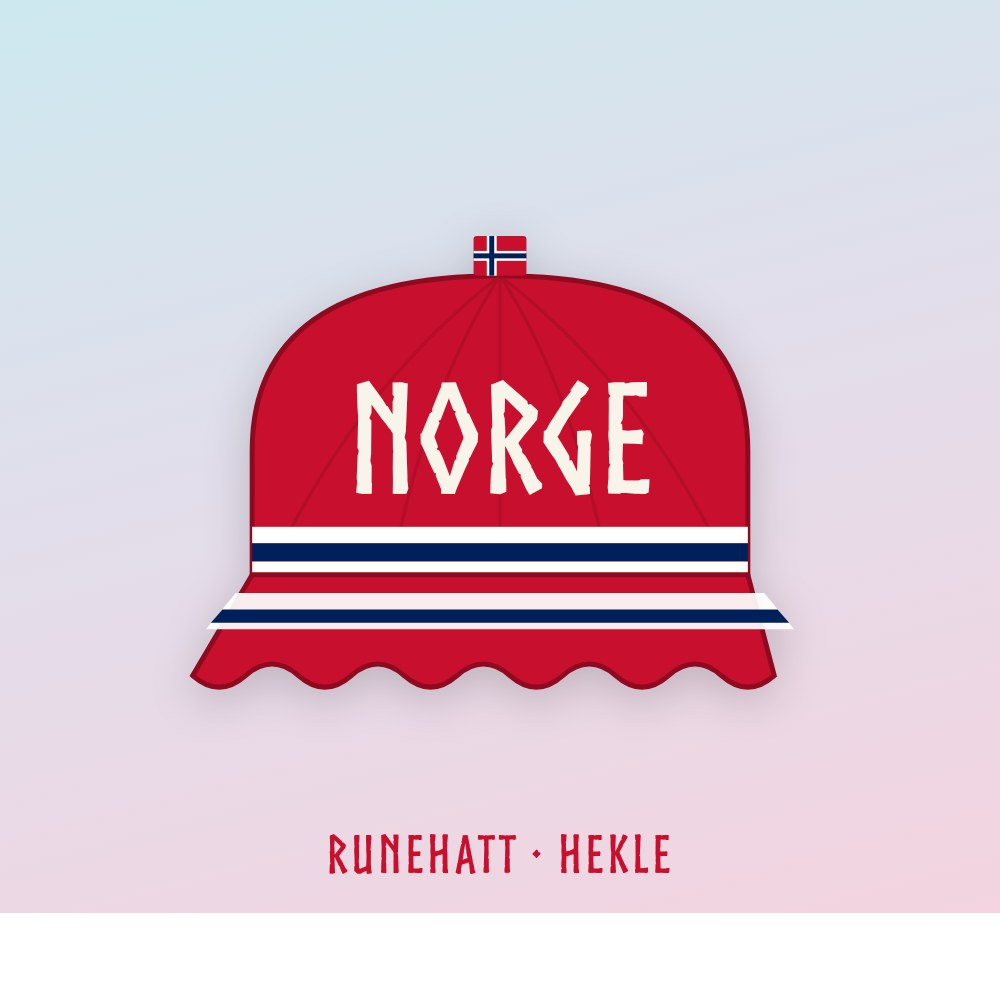
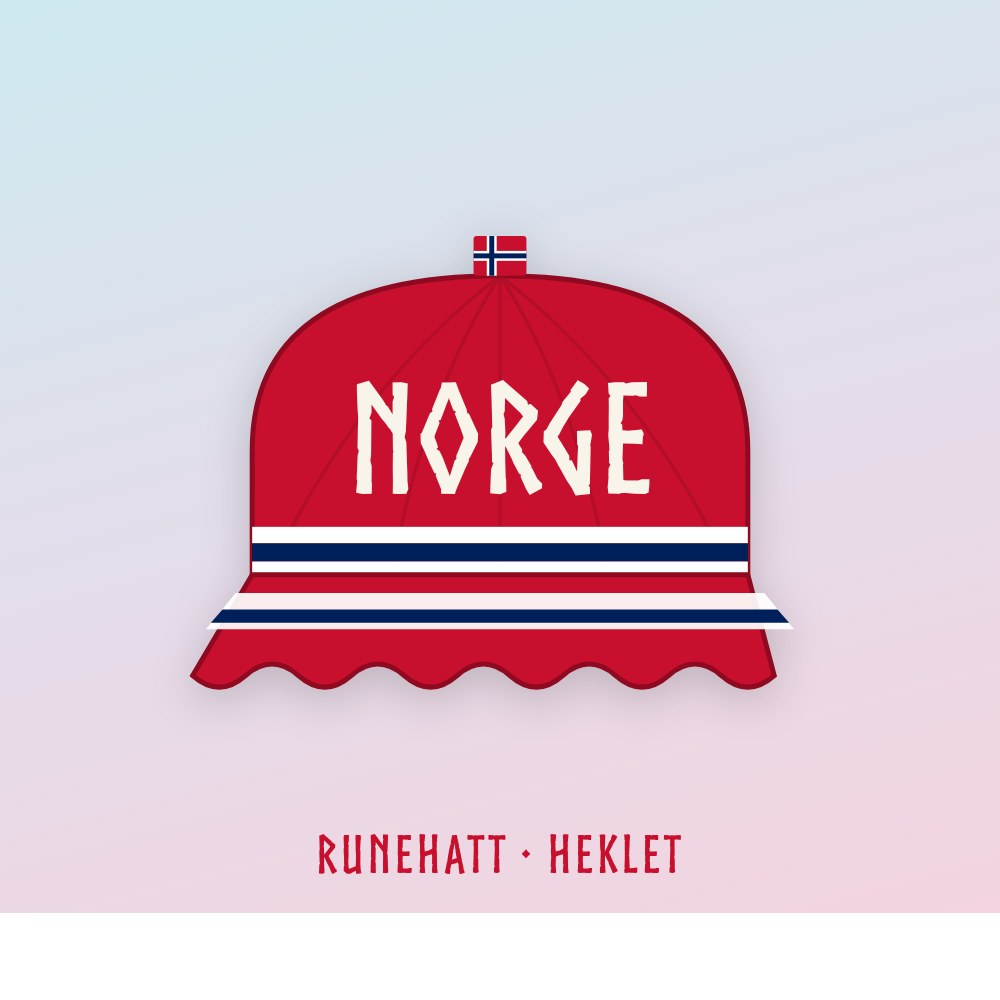
Runehatt: cover sier HEKLET (ikke HEKLE), oppdater oversettelsesnokler, cache-bust bilde
Claude-Session: https://claude.ai/code/session_012w3LccKvtpAvZ2JdFM7Bso

Changed region(s): [[0.31, 0.837, 0.682, 0.899]]

diff --git a/butikk.html b/butikk.html
@@ -1312,7 +1312,7 @@ main > *:nth-child(6) { animation-delay: 0.3s; }
         <a href="/butikk/norge-rune" style="display:block;text-decoration:none;color:inherit;">
           <div class="product-image" style="background:#F8D7DA;">
             <span class="product-tag">NY</span>
-            <img src="/images/oppskrift-norge-rune.jpg" alt="NORGE-runehatt, hekleoppskrift" style="position:absolute;inset:0;width:100%;height:100%;object-fit:cover;">
+            <img src="/images/oppskrift-norge-rune.jpg?v=2" alt="NORGE-runehatt, hekleoppskrift" style="position:absolute;inset:0;width:100%;height:100%;object-fit:cover;">
           </div>
         </a>
         <div class="product-info">
@@ -1951,8 +1951,8 @@ main > *:nth-child(6) { animation-delay: 0.3s; }
     "Strikk · broder bokstavene · nybegynnervennlig · rød NORGE": "Knit · embroider the letters · beginner-friendly · red NORGE",
     "NORGE-bøttehatt, innstrikket": "NORGE bucket hat, knitted in",
     "Strikk · innstrikket flerfargestrikk · viderekommende · rød NORGE": "Knit · stranded colourwork · advanced · red NORGE",
-    "NORGE-runehatt, hekle": "NORGE rune hat, crochet",
-    "Hekle · staver · NORGE/NORWAY i runeskrift · stripet brem · barn til herre": "Crochet · double crochet · NORGE/NORWAY in runes · striped brim · child to man"
+    "NORGE-runehatt, heklet": "NORGE rune hat, crochet",
+    "Heklet · staver · NORGE/NORWAY i runeskrift · stripet brem · barn til herre": "Crochet · double crochet · NORGE/NORWAY in runes · striped brim · child to man"
   });
 
   window.LME_CURRENT_LANG = 'no';

diff --git a/butikk/butikk-config.js b/butikk/butikk-config.js
@@ -196,8 +196,8 @@ window.LME_BUTIKK = {
       navn:  { no: "NORGE-runehatt, hekleoppskrift", en: "NORWAY rune hat, crochet pattern" },
       undertittel: { no: "Rød hatt · NORGE/NORWAY i runeskrift · stripet brem · staver · barn til herre",
                      en: "Red hat · NORGE/NORWAY in runes · striped brim · double crochet · child to man" },
-      cover:   "/images/oppskrift-norge-rune.jpg",
-      coverEn: "/images/oppskrift-norge-rune.jpg",
+      cover:   "/images/oppskrift-norge-rune.jpg?v=2",
+      coverEn: "/images/oppskrift-norge-rune.jpg?v=2",
       filer: [
         { sprak: "no", url: "/butikk/nedlasting/oppskrifter/norge-rune.pdf",
           knapp: { no: "Last ned oppskriften (PDF)", en: "Download the pattern (PDF)" } },

diff --git a/butikk/norge-rune.html b/butikk/norge-rune.html
@@ -122,7 +122,7 @@
   </section>
 
   <div class="cover-card">
-    <img src="/images/oppskrift-norge-rune.jpg" alt="NORGE-runehatt, hekleoppskrift">
+    <img src="/images/oppskrift-norge-rune.jpg?v=2" alt="NORGE-runehatt, hekleoppskrift">
     <p class="cover-note" data-no="NORGE i runeskrift, heklet i staver, med stripet brem og flagg på toppen." data-en="NORGE in runes, crocheted in double crochet, with a striped brim and a flag on the top.">NORGE i runeskrift, heklet i staver, med stripet brem og flagg på toppen.</p>
   </div>
 
